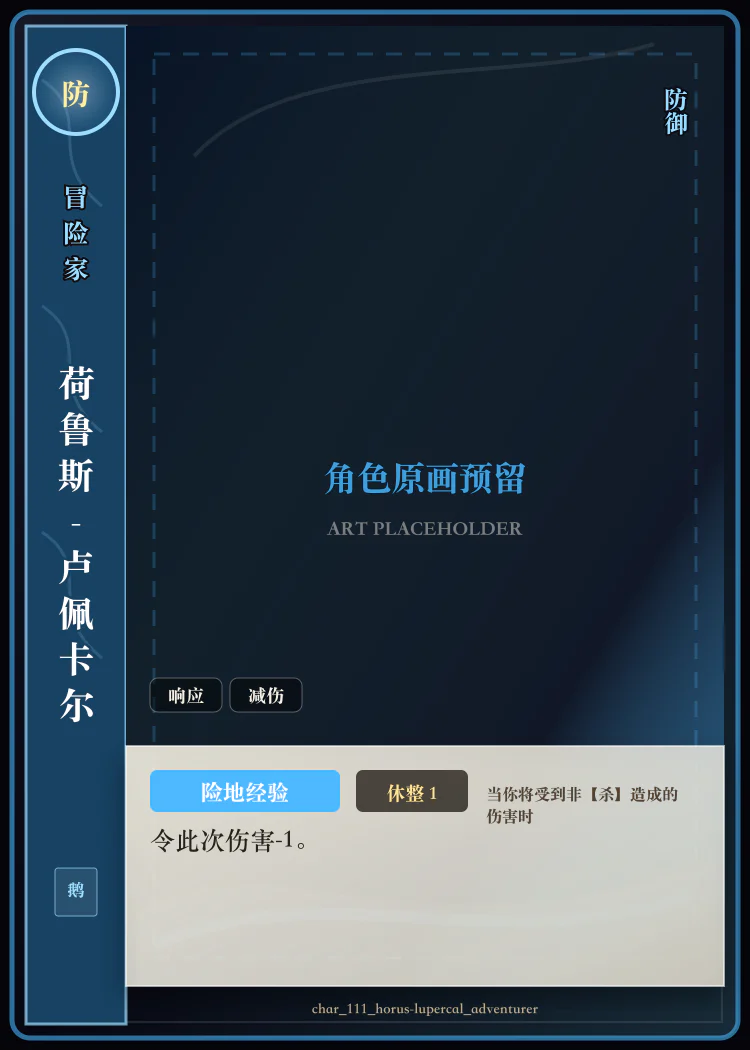
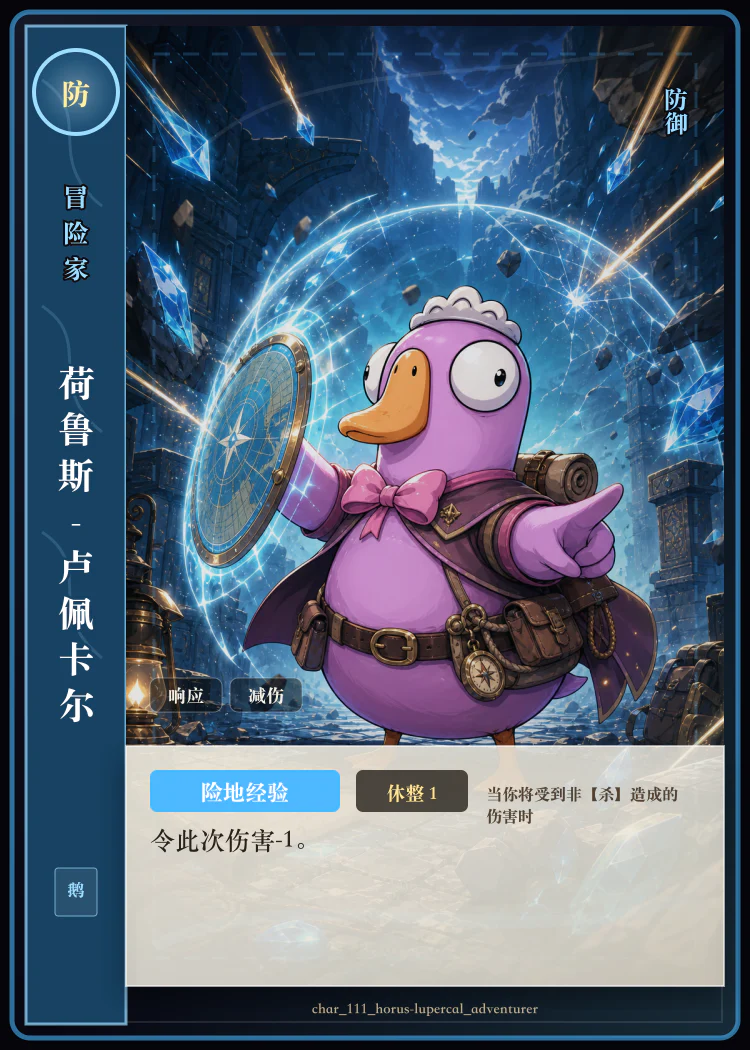
fix: 修复视图切换功能失效问题

diff --git a/src/styles/global.css b/src/styles/global.css
@@ -665,6 +665,7 @@ strong { color: var(--text-gold); font-weight: 800; }
 .tcg-char__source--塔 { color: #6ee7b7; background: rgba(110,231,183,0.15); border: 1px solid rgba(110,231,183,0.35); }
 .tcg-char__source--洲 { color: #60a5fa; background: rgba(96,165,250,0.15); border: 1px solid rgba(96,165,250,0.35); }
 .tcg-char__source--盟 { color: #c084fc; background: rgba(192,132,252,0.15); border: 1px solid rgba(192,132,252,0.35); }
+.tcg-char__source--荒 { color: #fb923c; background: rgba(251,146,60,0.15); border: 1px solid rgba(251,146,60,0.35); }
 .tcg-char__art {
   position: relative;
   height: 25cqw;